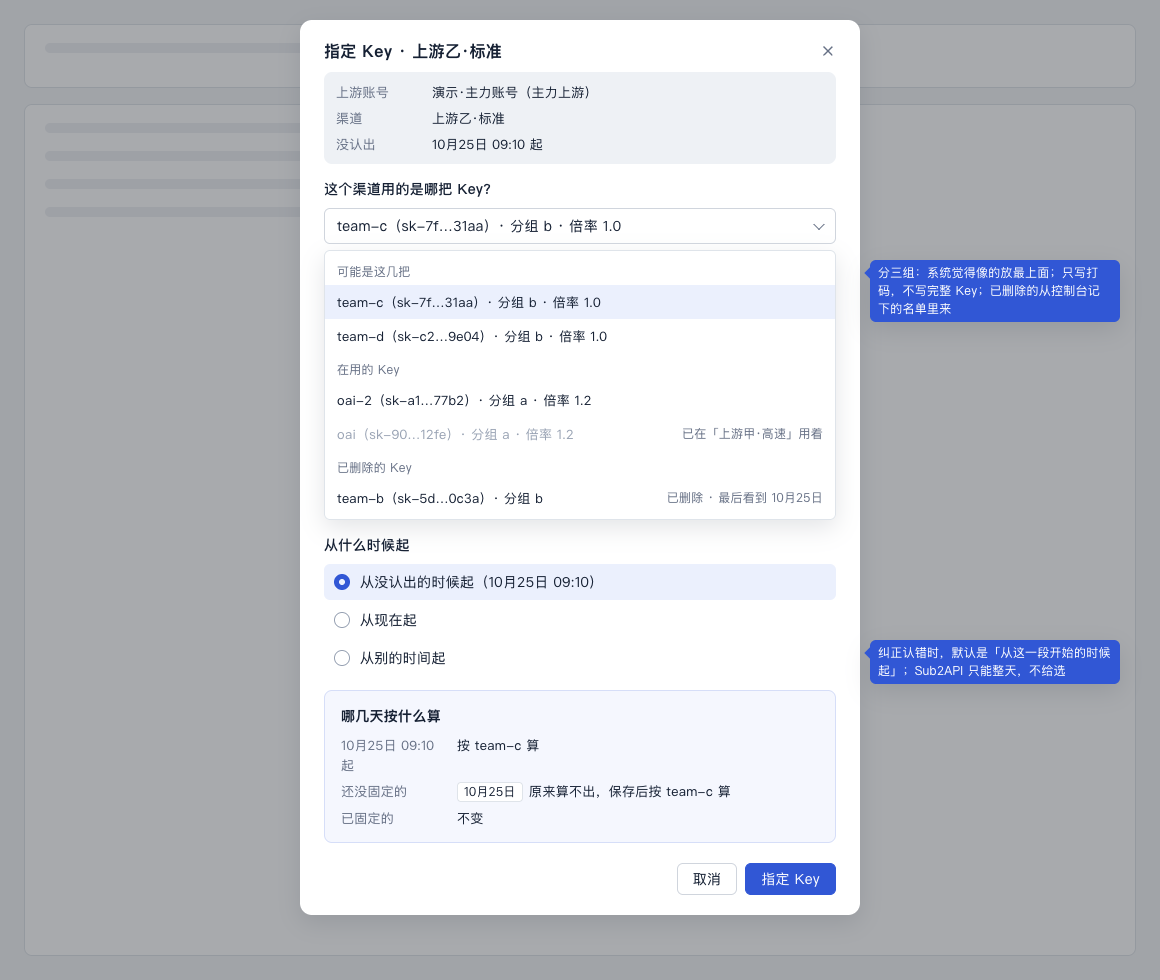
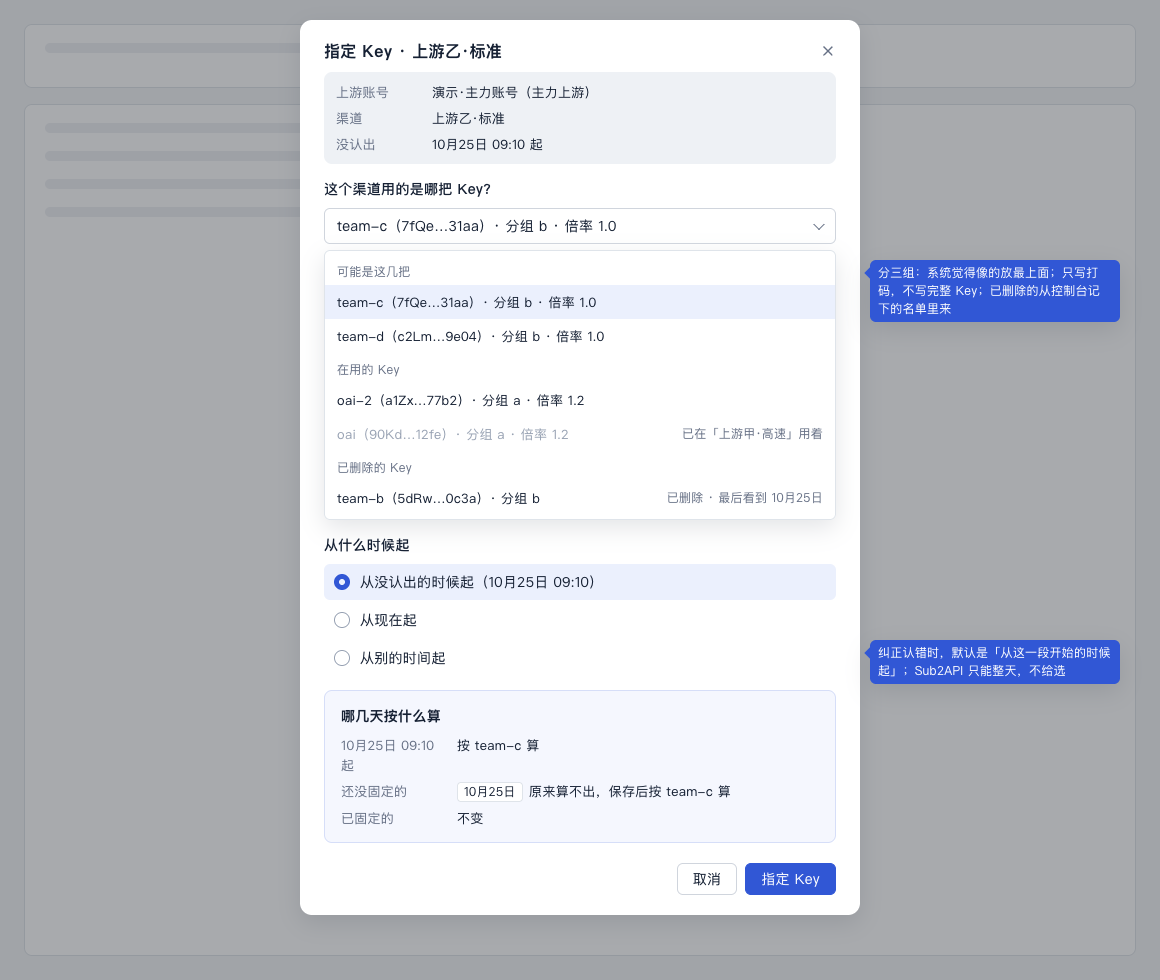
docs(ux): K 核对后改两处——4.3 只说 Sub2API 指定已删除的 Key 才慢；打码例子去掉 sk-，写清打码怎么来；Sub2API 按天判断 Key 是否已归别的绑定

diff --git a/design/ux/d-k.html b/design/ux/d-k.html
@@ -525,16 +525,16 @@ a { color: var(--cobalt); text-decoration: none; }
     <div class="modal-head"><h3>指定 Key · 上游乙·标准</h3><span class="spacer"></span><svg class="icon" style="color:var(--ink-3)"><use href="#i-close"/></svg></div>
     <div class="modal-body" style="padding-left:24px;gap:14px">
       <div class="rows" style="grid-template-columns:84px 1fr;background:var(--sunken);padding:10px 12px;border-radius:var(--r2)"><span>上游账号</span><div>演示·主力账号（主力上游）</div><span>渠道</span><div>上游乙·标准</div><span>没认出</span><div>10月25日 09:10 起</div></div>
-      <div class="field"><label>这个渠道用的是哪把 Key？</label><div class="select"><span class="val">team-c（sk-7f…31aa）· 分组 b · 倍率 1.0</span></div>
+      <div class="field"><label>这个渠道用的是哪把 Key？</label><div class="select"><span class="val">team-c（7fQe…31aa）· 分组 b · 倍率 1.0</span></div>
         <div class="menu">
           <div class="grp">可能是这几把</div>
-          <div class="opt on">team-c（sk-7f…31aa）· 分组 b · 倍率 1.0</div>
-          <div class="opt">team-d（sk-c2…9e04）· 分组 b · 倍率 1.0</div>
+          <div class="opt on">team-c（7fQe…31aa）· 分组 b · 倍率 1.0</div>
+          <div class="opt">team-d（c2Lm…9e04）· 分组 b · 倍率 1.0</div>
           <div class="grp">在用的 Key</div>
-          <div class="opt">oai-2（sk-a1…77b2）· 分组 a · 倍率 1.2</div>
-          <div class="opt dis">oai（sk-90…12fe）· 分组 a · 倍率 1.2<span>已在「上游甲·高速」用着</span></div>
+          <div class="opt">oai-2（a1Zx…77b2）· 分组 a · 倍率 1.2</div>
+          <div class="opt dis">oai（90Kd…12fe）· 分组 a · 倍率 1.2<span>已在「上游甲·高速」用着</span></div>
           <div class="grp">已删除的 Key</div>
-          <div class="opt">team-b（sk-5d…0c3a）· 分组 b<span>已删除 · 最后看到 10月25日</span></div>
+          <div class="opt">team-b（5dRw…0c3a）· 分组 b<span>已删除 · 最后看到 10月25日</span></div>
         </div>
       </div>
       <div class="field"><label>从什么时候起</label>

diff --git a/design/ux/k-key-segments.md b/design/ux/k-key-segments.md
@@ -86,7 +86,7 @@
 | 认不出 | 10月25日 09:10 起　<黄>还没认出是哪把 Key</黄> | 指定 Key |
 | 已经结束的一段 | 起始时间后面加「到 10月24日 14:30」 | |
 
-- Key 名同名分不开时，名字后面跟打码「oai（sk-x…abcd）」，前 4 位…后 4 位。完整 Key 不存、不显示。
+- Key 名同名分不开时，名字后面跟打码「oai（AbC1…9f0c）」，前 4 位…后 4 位，不补「sk-」。完整 Key 不存、不显示。
 - 倍率读不到时写「倍率暂时读不到」（§5.4 现有写法）。
 - 不写段号、不写 token_id、不写「指纹」。
 
@@ -119,7 +119,8 @@
 ### 4.3 要重算的时候
 
 - 指定 Key、改时间以后，被改到的那几天要重算。
-- 上游是 Sub2API 时，按小时以下取成本要逐条翻用量明细，可能要一会儿。算好之前，那几天写「还在读取」（§4 现有的提示），不另起说法。
+- 一般重算很快：New API 按秒取，Sub2API 按整天取（换 Key 那天两把 Key 全天相加，见第 9 节）。
+- 只有一种情况慢：上游是 Sub2API、指定的是已删除的 Key。上游按已删除的 Key 查会报错，只能翻用量明细，或者用账号总量减去其他 Key。算好之前，那几天写「还在读取」（§4 现有的提示），不另起说法；第 7 节小窗里选已删除的 Key 时那句「这把 Key 已删除，用量要从明细里算」说的就是这件。
 
 ## 5. 账号的问题：「这个上游账号只给你自己的渠道用吗？」（样稿 K-E）
 
@@ -257,8 +258,9 @@
     - **可能是这几把**（有候选时才有，放最上面）：系统按用量觉得像的那几把；
     - **在用的 Key**：取自上游的 Key 列表；
     - **已删除的 Key**：上游列表里已经没有了，从控制台自己记下的名单里列，每把标「已删除」，后面写「最后看到 10月23日」。
-  - 一把 Key 的写法「oai-3（sk-x…9f0c）· 分组 a · 倍率 1.2」：名字、打码（前 4 位…后 4 位）、分组、倍率。完整 Key 不存、不显示。
-  - 灰掉不能选的，写原因：「已在「上游乙·标准」用着」（那一刻归别的绑定）。
+  - 一把 Key 的写法「oai-3（AbC1…9f0c）· 分组 a · 倍率 1.2」：名字、打码（前 4 位…后 4 位）、分组、倍率。完整 Key 不存、不显示。
+  - 打码怎么来：New API 用上游给的打码（Key 本身的前 4 位加后 4 位，不带「sk-」，页面也不补）；Sub2API 上游给的是完整 Key，由控制台按前 4 位…后 4 位打码，只存打码，不存完整 Key。
+  - 灰掉不能选的，写原因：「已在「上游乙·标准」用着」（那一刻归别的绑定）。Sub2API 按整天算，所以按天判断：同一天里这把 Key 归过别的绑定就灰掉，不然那一天会算两次。
   - 选了就自动测试读取，写「能读到账单」或「读不到：原因」。选已删除的 Key 时写「这把 Key 已删除，用量要从明细里算，算好以前这几天写「还在读取」」。
 - **从什么时候起**（单选）：
   - 「从没认出的时候起（10月25日 09:10）」：认不出时默认选这个；
@@ -348,7 +350,7 @@
   - 「指定 Key」下拉的分组名「可能是这几把」「在用的 Key」「已删除的 Key」，已删除的标「已删除」、后面写「最后看到 10月23日」；
   - 选已删除的 Key 时「这把 Key 已删除，用量要从明细里算，算好以前这几天写「还在读取」」；
   - 同一个上游站有两个账号时「这个上游站上还有别的账号，有的渠道分不清是哪个账号的」。
-  - Key 的打码写成「sk-x…9f0c」，前 4 位…后 4 位（§3.1 原来写的是「sk-…abcd」，跟着改）。
+  - Key 的打码写成「AbC1…9f0c」，Key 本身的前 4 位…后 4 位，不补「sk-」（§3.1 原来写的是「sk-…abcd」，跟着改）。New API 用上游给的打码；Sub2API 由控制台打码，不存完整 Key。
 
 **ui-design-spec.md**
 
@@ -382,6 +384,8 @@
 
 - **怎么认**（第 4.1 节）：渠道属于哪个上游按地址；用的哪把 Key 按三档：对请求号（自营站点 ≥ v1.0.0-rc.6、上游 New API ≥ v0.10.8）→ 按时间和用量逐条对 → 看用量起落。每一段记下是哪一档认出的，页面据此写「系统发现」或「按用量认的」。
 - **Key 名单**：K1 把看到过的每把 Key 记下来（id、名字、打码、分组、第一次和最后一次看到的时间），「指定 Key」的「已删除」那组从这里出。完整 Key 不存。
+- **打码**：New API 用上游给的打码，不补「sk-」；Sub2API 给的是完整 Key，控制台按前 4 位…后 4 位打码后只存打码。
+- **Key 已归别的绑定**：New API 按时刻判断；Sub2API 按整天算，按天判断，同一天里归过别的绑定就不能再指定，免得那一天算两次。
 - **同名 Key**：New API 按名字取用量会把同名的混在一起；页面用打码区分，成本要按 Key 的 id 分开算（摸底第 5 节）。
 - **上游账单接口**按「账号 → 绑定 → 用过的 Key」给，每段带：开始、结束、Key 名、打码、分组、倍率、来源（系统发现 / 按用量认的 / 你指定的 / 绑定时）、能不能改时间。认不出的那段也是一段。
 - **找渠道**（6.1）：给一个上游账号，返回自营站点里地址对得上的渠道和认出结果（认出的 Key 和是哪一档、几把都像、没认出、还没有请求、Key 已归别的绑定并带那条绑定的名字），打开面板就调，不要用户点「测试读取」。也要能反过来：给一个渠道，找它的 Key 在哪个已加的账号里。
